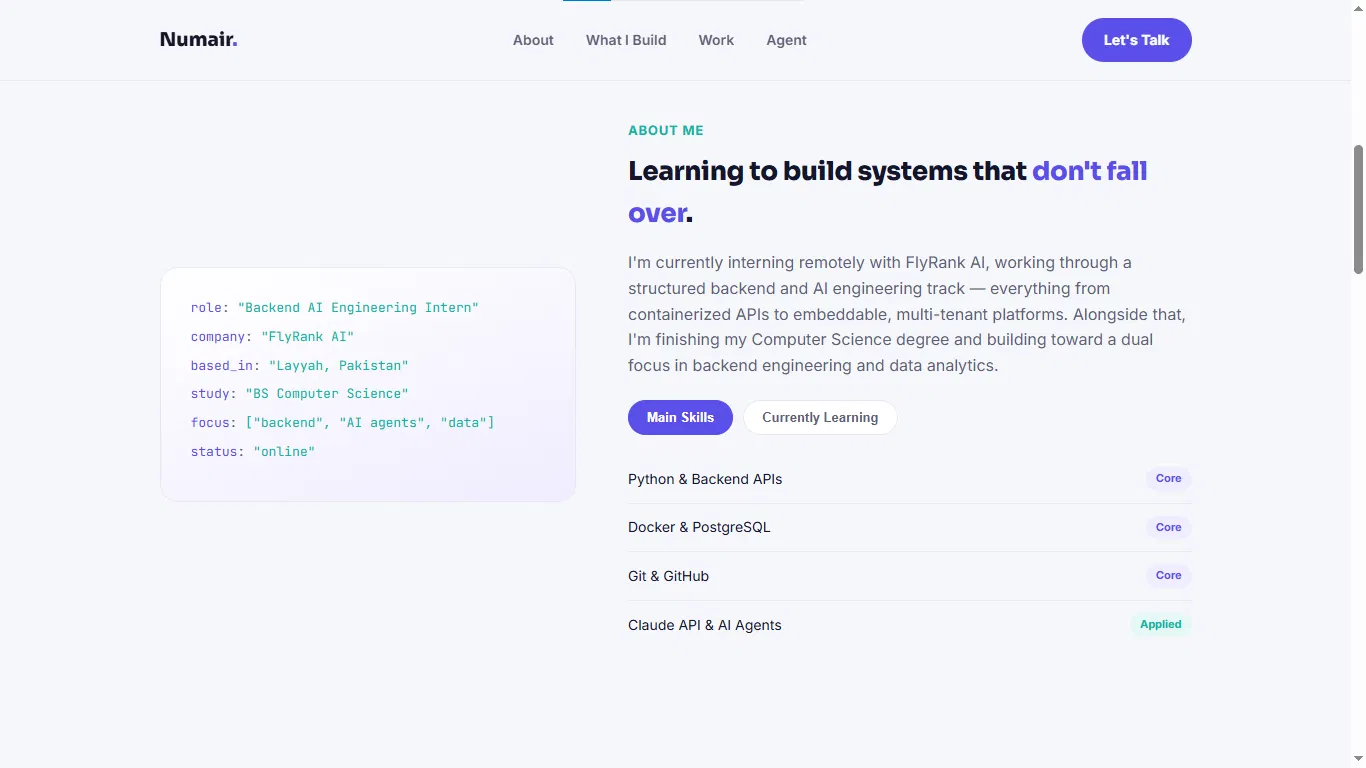
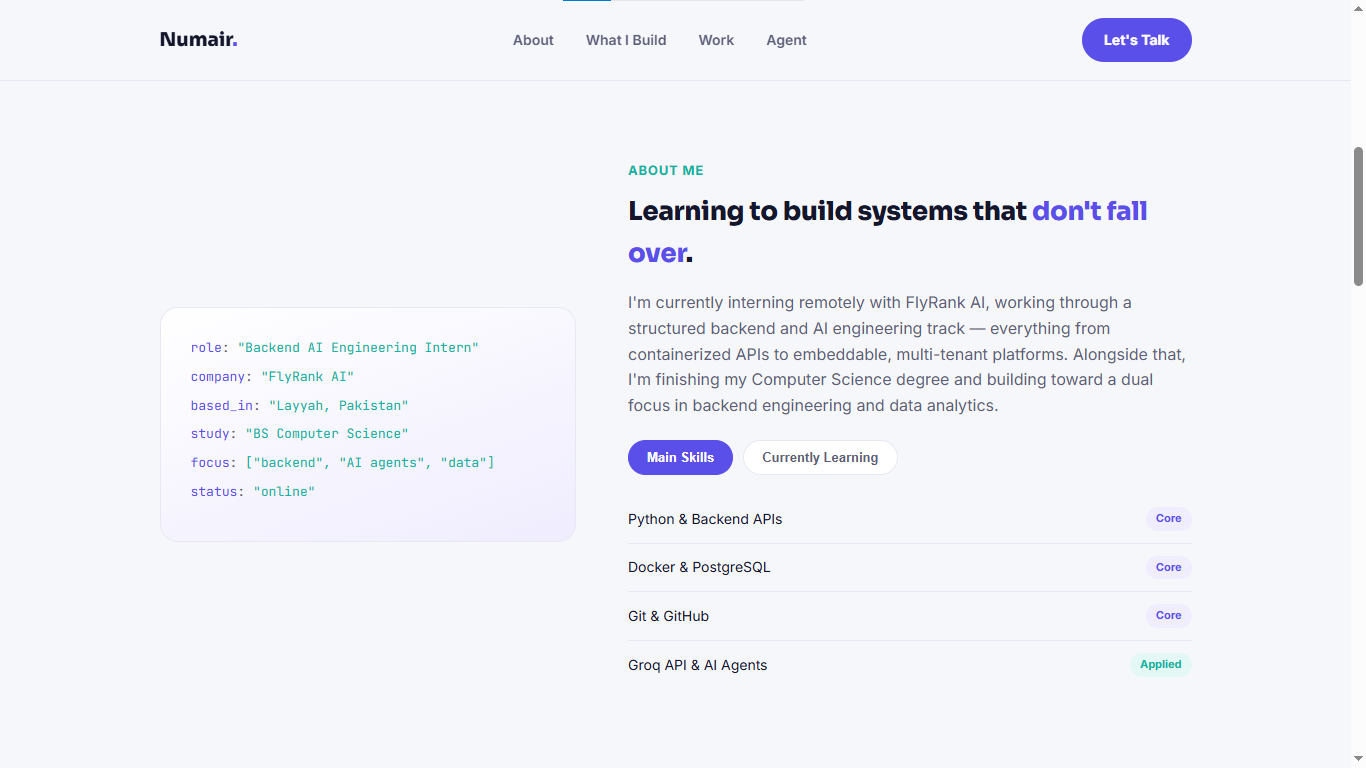
Initial commit: portfolio site with live A1 agent

diff --git a/public/index.html b/public/index.html
@@ -77,7 +77,7 @@
           <div class="skill-row"><span>Python & Backend APIs</span><span class="tag core">Core</span></div>
           <div class="skill-row"><span>Docker & PostgreSQL</span><span class="tag core">Core</span></div>
           <div class="skill-row"><span>Git & GitHub</span><span class="tag core">Core</span></div>
-          <div class="skill-row"><span>Claude API & AI Agents</span><span class="tag applied">Applied</span></div>
+          <div class="skill-row"><span>	Groq API & AI Agents</span><span class="tag applied">Applied</span></div>
         </div>
         <div class="tab-panel" data-panel="focus">
           <div class="skill-row"><span>Data Analytics</span><span class="tag learning">Learning</span></div>
@@ -104,7 +104,7 @@
       <div class="service-card">
         <div class="service-icon" style="background:var(--teal-tint); color:var(--teal);">◈</div>
         <h4>AI Agents</h4>
-        <p>Wiring Claude and other LLMs into real products — like the agent running on this page.</p>
+        <p>Wiring Groq and other LLMs into real products — like the agent running on this page.</p>
       </div>
       <div class="service-card">
         <div class="service-icon" style="background:var(--amber-tint); color:var(--amber);">▤</div>
